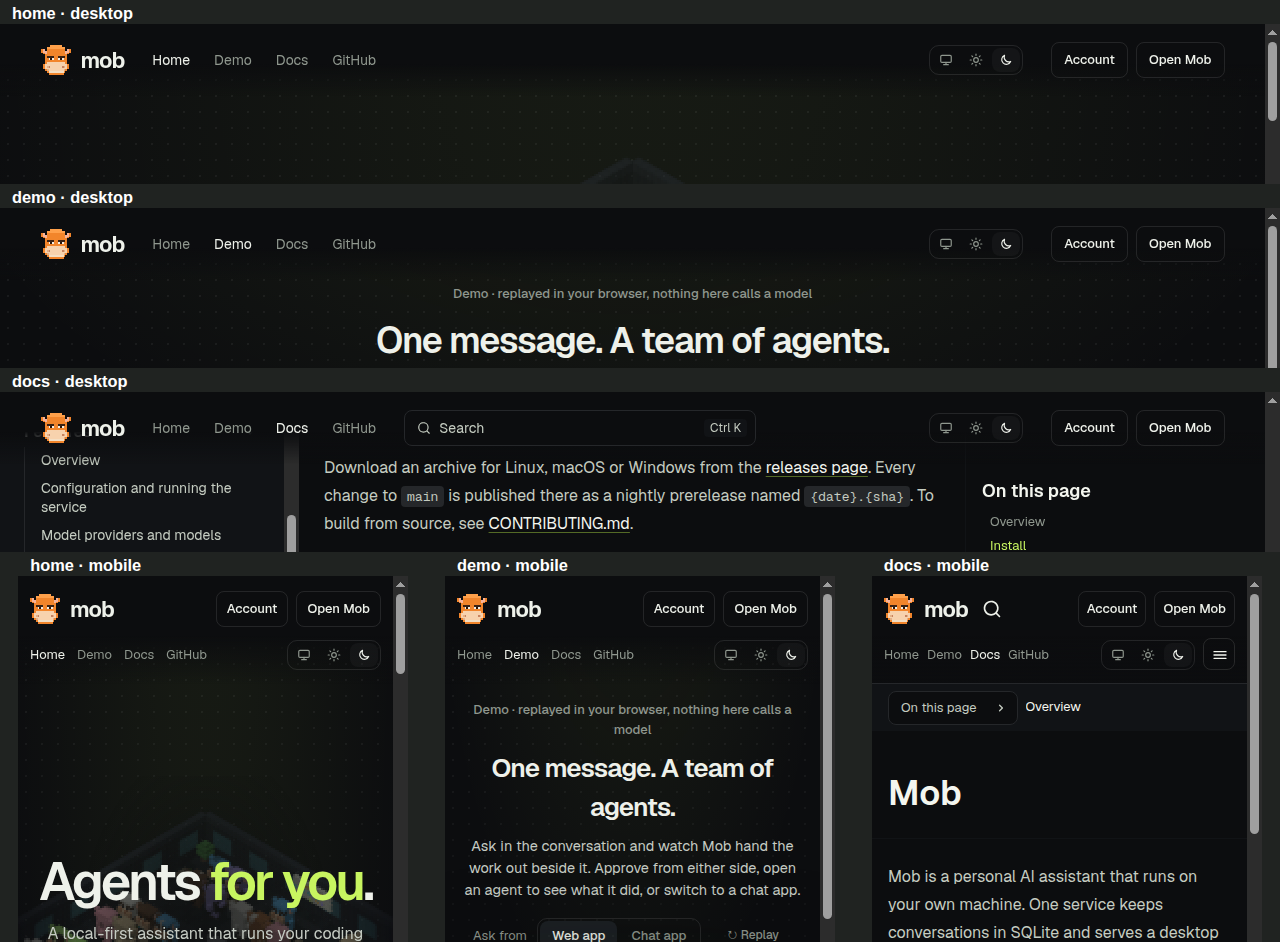
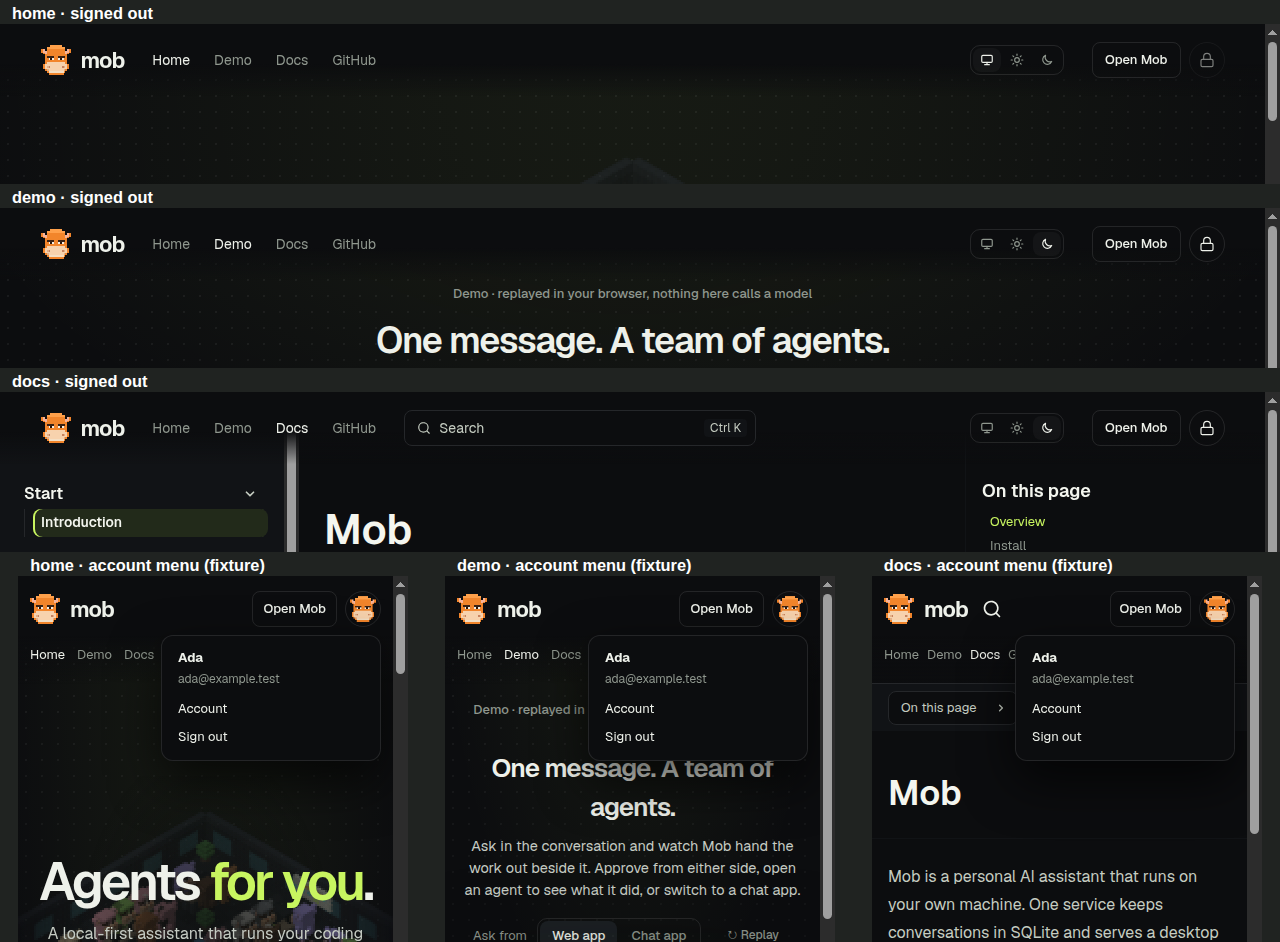
fix(web): restore shared header account menu

diff --git a/webapp/src/landing/navigation.test.tsx b/webapp/src/landing/navigation.test.tsx
@@ -1,6 +1,14 @@
-import { render, screen, within } from '@testing-library/react';
-import { expect, it } from 'vitest';
+import { fireEvent, render, screen, waitFor, within } from '@testing-library/react';
+import { beforeEach, expect, it, vi } from 'vitest';
+
+const auth = vi.hoisted(() => ({
+	session: { isPending: false, data: null } as { isPending: boolean; data: null | { user: { name: string; email: string; image: string | null } } },
+	signOut: vi.fn(),
+}));
+vi.mock('./auth', () => ({ authClient: { useSession: () => auth.session, signOut: auth.signOut } }));
 import { SiteHeader } from '../components/site/Site';
+
+beforeEach(() => { auth.session = { isPending: false, data: null }; auth.signOut.mockReset(); });
 
 it.each(['/', '/demo', '/docs/', '/account'])('keeps the same public navigation on %s', current => {
 	render(<SiteHeader current={current} />);
@@ -8,8 +16,38 @@ it.each(['/', '/demo', '/docs/', '/account'])('keeps the same public navigation 
 	expect(nav.getAllByRole('link').map(link => [link.textContent, link.getAttribute('href')])).toEqual([
 		['Home', '/'], ['Demo', '/demo'], ['Docs', '/docs/'], ['GitHub', 'https://github.com/fdkevin0/mob'],
 	]);
-	expect(screen.getByRole('link', { name: 'Account' }).getAttribute('href')).toBe('/account');
+	expect(screen.queryByRole('link', { name: 'Account' })).toBeNull();
 	expect(screen.getByRole('link', { name: 'Open Mob' }).getAttribute('href')).toBe('/app');
-	expect(screen.getByRole('link', { current: 'page' }).getAttribute('href')).toBe(current);
+	expect(screen.getByRole('button', { name: 'Sign in' })).toBeTruthy();
+	if (current !== '/account') expect(screen.getByRole('link', { current: 'page' }).getAttribute('href')).toBe(current);
 	expect(screen.getByRole('radiogroup', { name: 'Theme' })).toBeTruthy();
+});
+
+it('reserves the user control while session state loads', () => {
+	auth.session.isPending = true;
+	render(<SiteHeader />);
+	expect(screen.getByRole('button', { name: 'Loading account' }).hasAttribute('disabled')).toBe(true);
+	expect(screen.queryByRole('button', { name: 'Sign in' })).toBeNull();
+});
+
+it('shows the avatar after Open Mob and falls back to an initial if the image fails', () => {
+	auth.session.data = { user: { name: 'Ada', email: 'ada@example.test', image: 'https://example.test/avatar.png' } };
+	render(<SiteHeader />);
+	const button = screen.getByRole('button', { name: 'Account' });
+	expect(button.previousElementSibling?.textContent).toBe('Open Mob');
+	const image = button.querySelector('img')!;
+	expect(image.src).toBe('https://example.test/avatar.png');
+	fireEvent.error(image);
+	expect(button.textContent).toBe('A');
+});
+
+it('puts account and sign-out in the avatar menu, and reports sign-out errors', async () => {
+	auth.session.data = { user: { name: 'Ada', email: 'ada@example.test', image: null } };
+	auth.signOut.mockResolvedValue({ error: { message: 'Offline' } });
+	render(<SiteHeader />);
+	fireEvent.keyDown(screen.getByRole('button', { name: 'Account' }), { key: 'Enter' });
+	expect((await screen.findByRole('menuitem', { name: 'Account' })).getAttribute('href')).toBe('/account');
+	fireEvent.click(screen.getByRole('menuitem', { name: 'Sign out' }));
+	await waitFor(() => expect(auth.signOut).toHaveBeenCalledOnce());
+	expect((await screen.findByRole('alert')).textContent).toContain('Could not sign out');
 });

diff --git a/webapp/src/landing/UserMenu.tsx b/webapp/src/landing/UserMenu.tsx
@@ -1,0 +1,42 @@
+import { useState, type MouseEventHandler } from 'react';
+import { authClient } from './auth';
+import { Icon } from '../components/brand/Icon';
+import { DropdownMenu, DropdownMenuContent, DropdownMenuItem, DropdownMenuLabel, DropdownMenuTrigger } from '../components/ui/dropdown-menu';
+
+export function UserMenu({ onSignIn }: { onSignIn?: MouseEventHandler<HTMLButtonElement> }) {
+	const session = authClient.useSession();
+	const user = session.data?.user;
+	const [failedImage, setFailedImage] = useState<string>();
+	const [error, setError] = useState('');
+	const [signingOut, setSigningOut] = useState(false);
+
+	async function signOut() {
+		setSigningOut(true);
+		setError('');
+		try {
+			const result = await authClient.signOut();
+			if (result.error) setError('Could not sign out. Try again.');
+		} catch {
+			setError('Could not sign out. Try again.');
+		} finally {
+			setSigningOut(false);
+		}
+	}
+
+	if (!user) return <button type="button" className="site-user" aria-label={session.isPending ? 'Loading account' : 'Sign in'} title={session.isPending ? 'Loading account' : 'Sign in'} disabled={session.isPending} aria-haspopup={onSignIn ? 'dialog' : undefined}
+		onClick={onSignIn ?? (() => window.location.assign('/?signin=account'))}><Icon name="lock" size={16} /></button>;
+
+	return (
+		<DropdownMenu modal={false}>
+			<DropdownMenuTrigger asChild><button type="button" className="site-user" aria-label="Account" title={user.name || user.email}>
+				{user.image && user.image !== failedImage ? <img src={user.image} alt="" onError={() => setFailedImage(user.image!)} /> : (user.name || user.email).slice(0, 1).toUpperCase()}
+			</button></DropdownMenuTrigger>
+			<DropdownMenuContent className="site-user-menu">
+				<DropdownMenuLabel className="ui-menu-label"><strong>{user.name}</strong>{user.email}</DropdownMenuLabel>
+				<DropdownMenuItem className="ui-menu-item" asChild><a href="/account">Account</a></DropdownMenuItem>
+				<DropdownMenuItem className="ui-menu-item" disabled={signingOut} onSelect={event => { event.preventDefault(); void signOut(); }}>{signingOut ? 'Signing out…' : 'Sign out'}</DropdownMenuItem>
+				{error ? <p role="alert" className="ui-menu-label">{error}</p> : null}
+			</DropdownMenuContent>
+		</DropdownMenu>
+	);
+}

diff --git a/webapp/src/components/site/header.css b/webapp/src/components/site/header.css
@@ -1,5 +1,5 @@
 /* One public header, independent of the React and Starlight page styles. */
-.site-header {
+.site-header, .site-user-menu {
 	--site-bg: #0c0d0f;
 	--site-text: #eef1ea;
 	--site-muted: #8f978e;
@@ -10,22 +10,19 @@
 	--line-strong: var(--site-border);
 	--accent: color-mix(in srgb, var(--site-text) 4%, transparent);
 	--ring: var(--site-accent);
-	position: sticky;
-	top: 0;
-	z-index: 10;
-	background: linear-gradient(var(--site-bg) 55%, transparent);
 	font-family: 'Geist Variable', sans-serif;
 	font-size: 14px;
 	line-height: 1.5;
 	color: var(--site-text);
 }
-[data-theme='light'] .site-header {
+[data-theme='light'] :is(.site-header, .site-user-menu) {
 	--site-bg: #f4f3ee;
 	--site-text: #1a1c15;
 	--site-muted: #696c60;
 	--site-border: #1a1c151c;
 	--site-accent: #4f7a0c;
 }
+.site-header { position: sticky; top: 0; z-index: 10; background: linear-gradient(var(--site-bg) 55%, transparent); }
 .site-header-floating { position: fixed; inset: 0 0 auto; }
 .site-header-inner {
 	box-sizing: border-box;
@@ -57,3 +54,12 @@
 	.site-theme { grid-area: 2 / 4; justify-content: flex-end; }
 	.site-account a { padding: 6px 10px; }
 }
+
+.site-account .site-user { display: inline-flex; align-items: center; justify-content: center; width: 36px; height: 36px; padding: 0; flex-shrink: 0; border: 1px solid var(--site-border); border-radius: 50%; background: transparent; color: inherit; font: inherit; cursor: pointer; overflow: hidden; }
+.site-user img { width: 100%; height: 100%; object-fit: cover; }
+.site-user:disabled { opacity: 0.5; cursor: wait; }
+.site-user:focus-visible { outline: 2px solid var(--site-accent); outline-offset: 3px; }
+#site-user { display: flex; }
+.site-user-menu { --panel: var(--site-bg); --brand: var(--site-accent); --radius: 8px; --radius-card: 12px; --shadow: 1; }
+[data-theme='light'] .site-user-menu { --shadow: 0.3; }
+.site-user-menu a { color: inherit; text-decoration: none; }

diff --git a/webapp/src/components/site/Site.tsx b/webapp/src/components/site/Site.tsx
@@ -1,6 +1,8 @@
 import { Logo } from '../brand/Logo';
 import { ThemePicker } from '../../theme/ThemePicker';
-import { siteLinks, accountLinks } from './navigation';
+import type { MouseEventHandler } from 'react';
+import { siteLinks } from './navigation';
+import { UserMenu } from '../../landing/UserMenu';
 import './header.css';
 import './site.css';
 
@@ -9,7 +11,7 @@ export type SiteLink = { href: string; label: string };
 const github = 'https://github.com/fdkevin0/mob';
 
 // React and Astro render the same navigation data and use header.css.
-export function SiteHeader({ current, floating }: { current?: string; floating?: boolean }) {
+export function SiteHeader({ current, floating, onSignIn }: { current?: string; floating?: boolean; onSignIn?: MouseEventHandler<HTMLButtonElement> }) {
 	return (
 		<header className={`site-header${floating ? ' site-header-floating' : ''}`}><div className="site-header-inner">
 			<a href="/" className="site-brand" aria-label="Mob home"><Logo /></a>
@@ -18,7 +20,8 @@ export function SiteHeader({ current, floating }: { current?: string; floating?:
 			</nav>
 			<div className="site-theme"><ThemePicker /></div>
 			<div className="site-account">
-				{accountLinks.map(link => <a key={link.href} href={link.href} aria-current={link.href === current ? 'page' : undefined}>{link.label}</a>)}
+				<a href="/app">Open Mob</a>
+				<UserMenu onSignIn={onSignIn} />
 			</div>
 		</div></header>
 	);

diff --git a/webapp/src/styles/base.css b/webapp/src/styles/base.css
@@ -217,39 +217,6 @@ a {
 	color: var(--brand);
 	border-bottom-color: var(--brand);
 }
-.ui-menu {
-	z-index: 60;
-	min-width: 220px;
-	max-width: calc(100vw - 24px);
-	padding: 6px;
-	border: 1px solid var(--line-strong);
-	border-radius: var(--radius-card);
-	background: var(--panel);
-	box-shadow: 0 20px 50px rgb(0 0 0 / calc(0.67 * var(--shadow)));
-}
-.ui-menu-label {
-	padding: 6px 10px 10px;
-	font-size: 12px;
-	color: var(--muted-foreground);
-	overflow-wrap: anywhere;
-}
-.ui-menu-label strong {
-	display: block;
-	color: var(--text);
-	font-size: 13px;
-	margin-bottom: 2px;
-}
-.ui-menu-item {
-	padding: 8px 10px;
-	border-radius: var(--radius);
-	font-size: 13px;
-	cursor: pointer;
-}
-.ui-menu-item[data-highlighted] {
-	background: var(--accent);
-	color: var(--brand);
-	outline: none;
-}
 
 @media (max-width: 640px) {
 	.dialog-panel {

diff --git a/webapp/src/components/ui/dropdown-menu.css b/webapp/src/components/ui/dropdown-menu.css
@@ -1,0 +1,33 @@
+.ui-menu {
+	z-index: 60;
+	min-width: 220px;
+	max-width: calc(100vw - 24px);
+	padding: 6px;
+	border: 1px solid var(--line-strong);
+	border-radius: var(--radius-card);
+	background: var(--panel);
+	box-shadow: 0 20px 50px rgb(0 0 0 / calc(0.67 * var(--shadow)));
+}
+.ui-menu-label {
+	padding: 6px 10px 10px;
+	font-size: 12px;
+	color: var(--muted-foreground);
+	overflow-wrap: anywhere;
+}
+.ui-menu-label strong {
+	display: block;
+	color: var(--text);
+	font-size: 13px;
+	margin-bottom: 2px;
+}
+.ui-menu-item {
+	padding: 8px 10px;
+	border-radius: var(--radius);
+	font-size: 13px;
+	cursor: pointer;
+}
+.ui-menu-item[data-highlighted] {
+	background: var(--accent);
+	color: var(--brand);
+	outline: none;
+}

diff --git a/webapp/src/landing/SignIn.tsx b/webapp/src/landing/SignIn.tsx
@@ -83,7 +83,6 @@ export function SignIn({ site, siteError, reason, returnFocus }: {
 		<DialogContent className="sign-in-dialog" onCloseAutoFocus={event => {
 			if (returnFocus?.current) { event.preventDefault(); returnFocus.current.focus(); }
 		}}>
-			<span className="corner tl" /><span className="corner tr" /><span className="corner bl" /><span className="corner br" />
 			<Icon name="lock" size={28} className="dialog-icon" />
 			<DialogTitle className="dialog-title">Sign in to Mob</DialogTitle>
 			<DialogDescription className="dialog-description">{reason ?? `Use your GitHub${site?.cloudflare ? ' or Cloudflare' : ''} account to open Mob on the web. Your conversations stay on your computer.`}</DialogDescription>

diff --git a/webapp/src/landing/Landing.test.tsx b/webapp/src/landing/Landing.test.tsx
@@ -13,9 +13,9 @@ vi.mock('./voxel/VoxelCanvas', () => ({ VoxelCanvas: () => null }));
 
 import { Landing } from './Landing';
 
-it('returns focus to the button that opened sign-in from the hero', async () => {
+it.each(['Get started', 'Sign in'])('returns focus to %s after closing sign-in', async name => {
 	render(<Landing />);
-	const trigger = screen.getByRole('button', { name: 'Get started' });
+	const trigger = screen.getByRole('button', { name });
 	fireEvent.click(trigger);
 	const dialog = await screen.findByRole('dialog', { name: 'Sign in to Mob' });
 	await waitFor(() => expect(dialog.contains(document.activeElement)).toBe(true));

diff --git a/webapp/src/landing/landing.css b/webapp/src/landing/landing.css
@@ -128,11 +128,6 @@ code { font-family: var(--mono); font-size: .92em; }
 
 /* Footer */
 
-.corner { position: absolute; width: 14px; height: 14px; border-color: var(--lime); border-style: solid; border-width: 0; }
-.corner.tl { top: -1px; left: -1px; border-top-width: 2px; border-left-width: 2px; }
-.corner.tr { top: -1px; right: -1px; border-top-width: 2px; border-right-width: 2px; }
-.corner.bl { bottom: -1px; left: -1px; border-bottom-width: 2px; border-left-width: 2px; }
-.corner.br { bottom: -1px; right: -1px; border-bottom-width: 2px; border-right-width: 2px; }
 
 /* Sign-in dialog */
 .dialog-icon { color: var(--lime); }

diff --git a/scripts/check-site.ts b/scripts/check-site.ts
@@ -57,7 +57,8 @@ try {
 			element() { headerSearches++; },
 		}).transform(new Response(docs)).text();
 		assert.equal(headerSearches, 1, 'Docs search belongs inside the shared header');
-		assert.match(docs, /href="\/account">Account<\/a>/);
+		assert.match(docs, /id="site-user"/);
+		assert.match(docs, /href="\/\?signin=account" aria-label="Sign in"/);
 		assert.match(docs, /href="\/app">Open Mob<\/a>/);
 		for (const path of ['/app', '/app/', '/account', '/account/']) {
 			const response = await request(path);

diff --git a/webapp/src/landing/demo/Demo.test.tsx b/webapp/src/landing/demo/Demo.test.tsx
@@ -2,6 +2,8 @@ import { act, fireEvent, render, screen, within } from '@testing-library/react';
 import { afterEach, expect, it, vi } from 'vitest';
 import { DemoPage } from './DemoPage';
 
+vi.mock('../auth', () => ({ authClient: { useSession: () => ({ isPending: false, data: null }) } }));
+
 afterEach(() => { vi.useRealTimers(); vi.unstubAllGlobals(); });
 
 // Each act flushes one round of renders, so time passes in small steps.

diff --git a/webapp/src/landing/Landing.tsx b/webapp/src/landing/Landing.tsx
@@ -50,7 +50,7 @@ export function Landing() {
 	return (
 		<Dialog open={!!dialog} onOpenChange={open => { if (!open) setDialog(undefined); }}>
 		<div className="landing">
-			<SiteHeader floating current="/" />
+			<SiteHeader floating current="/" onSignIn={showSignIn} />
 
 			<main>
 				<Story hero={(
